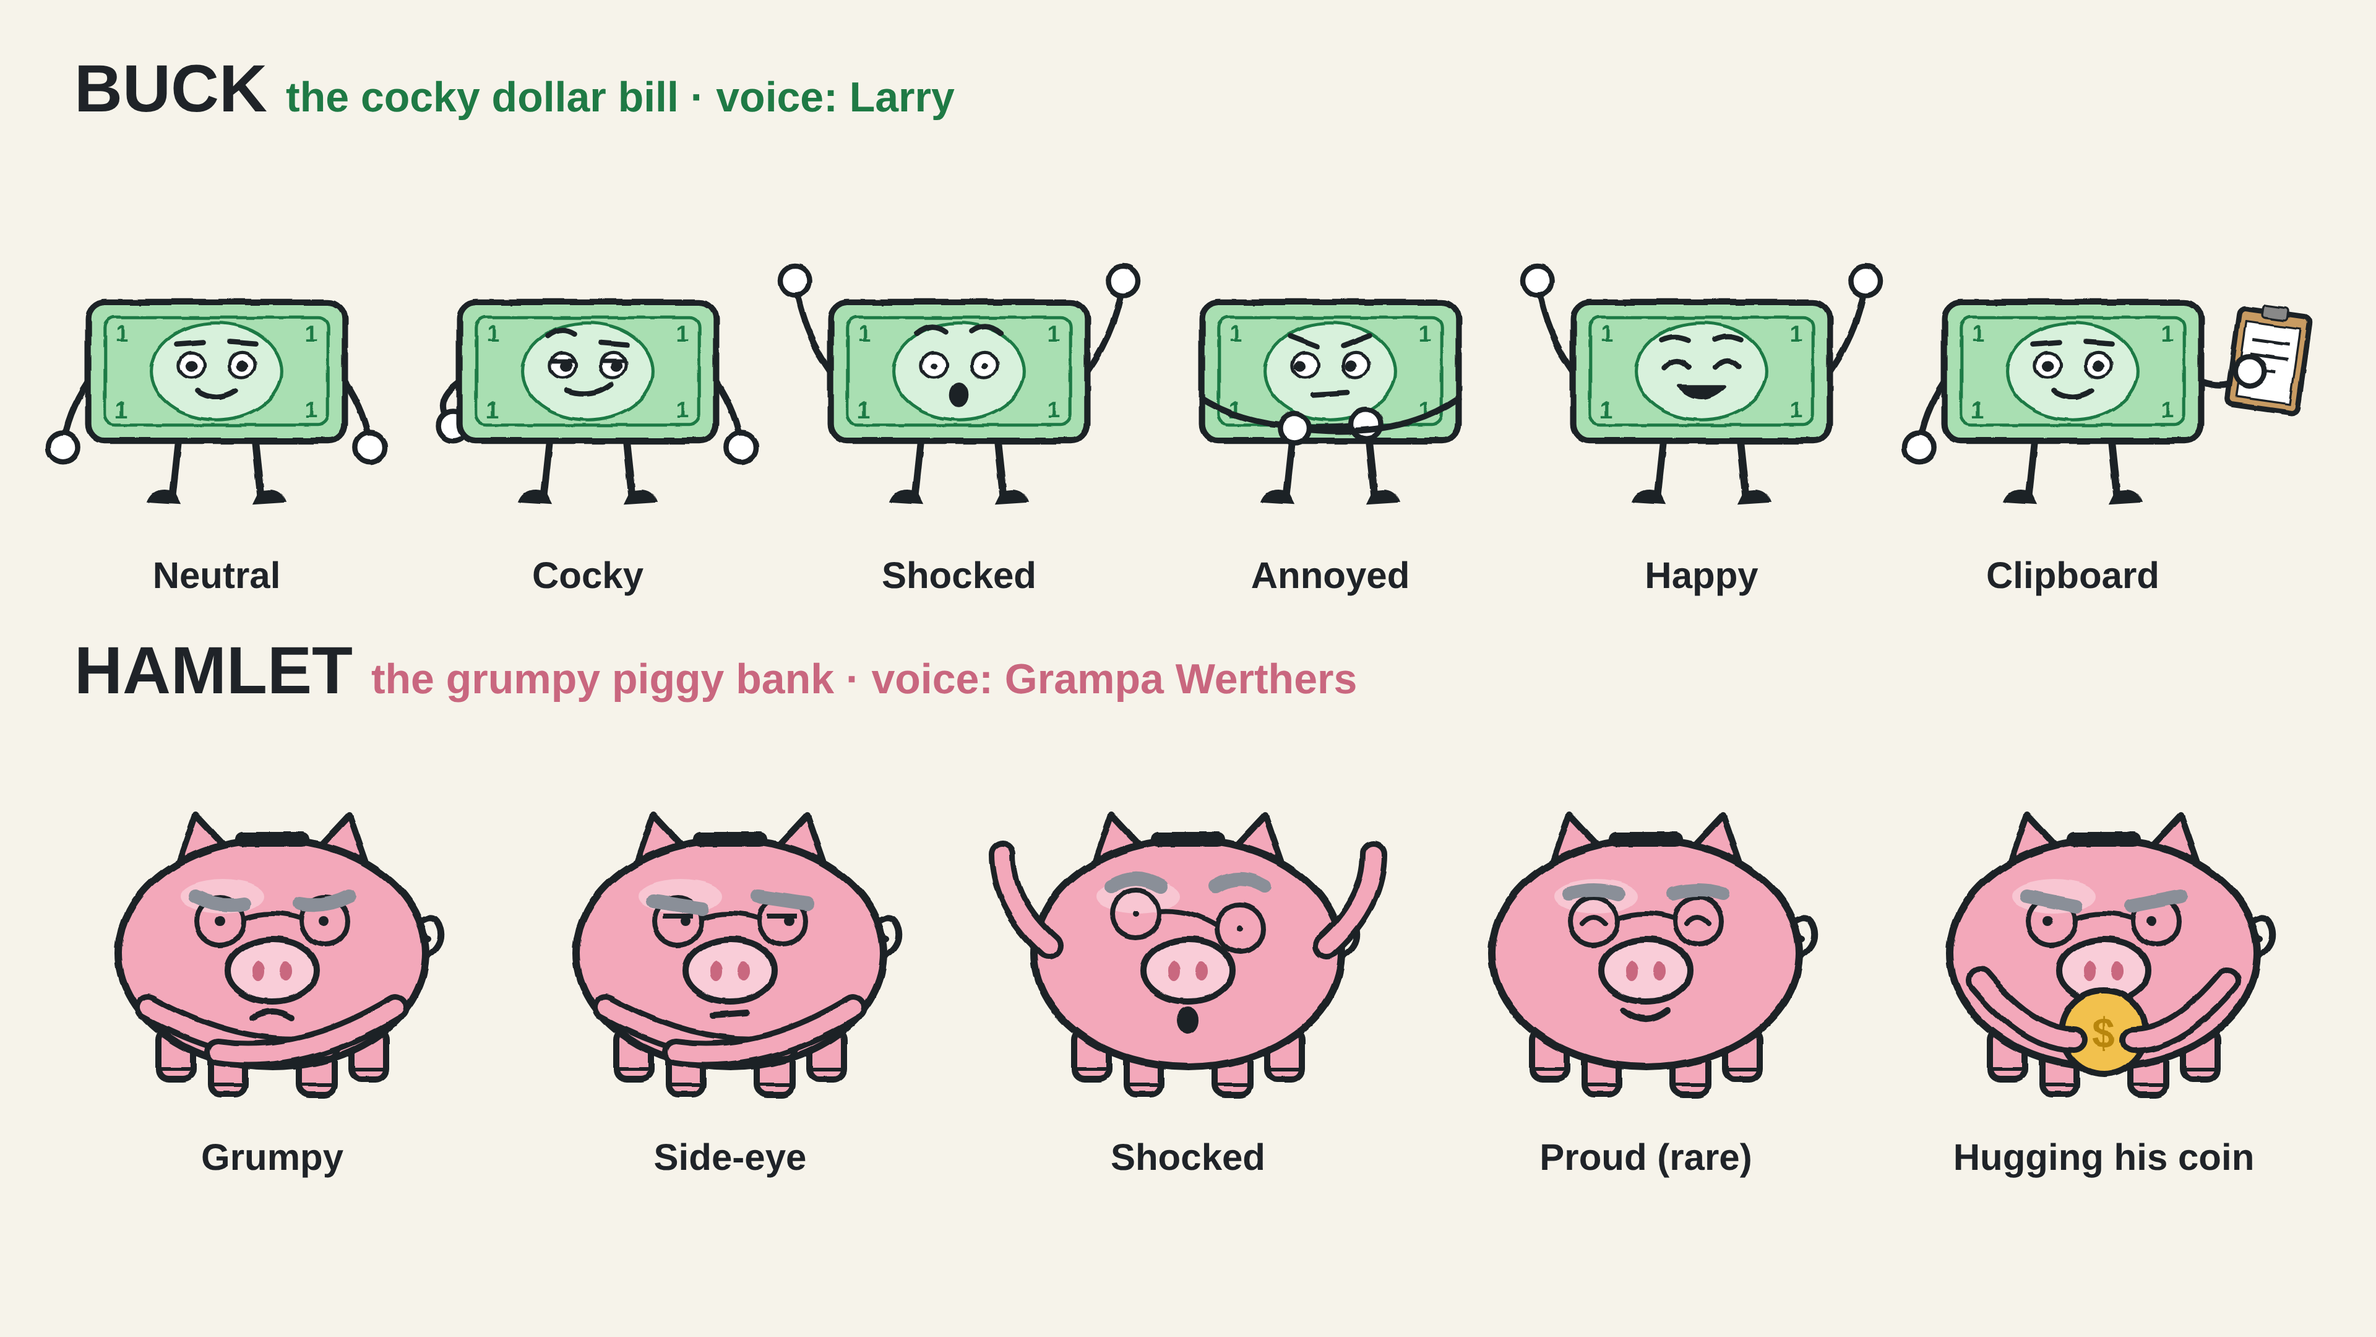
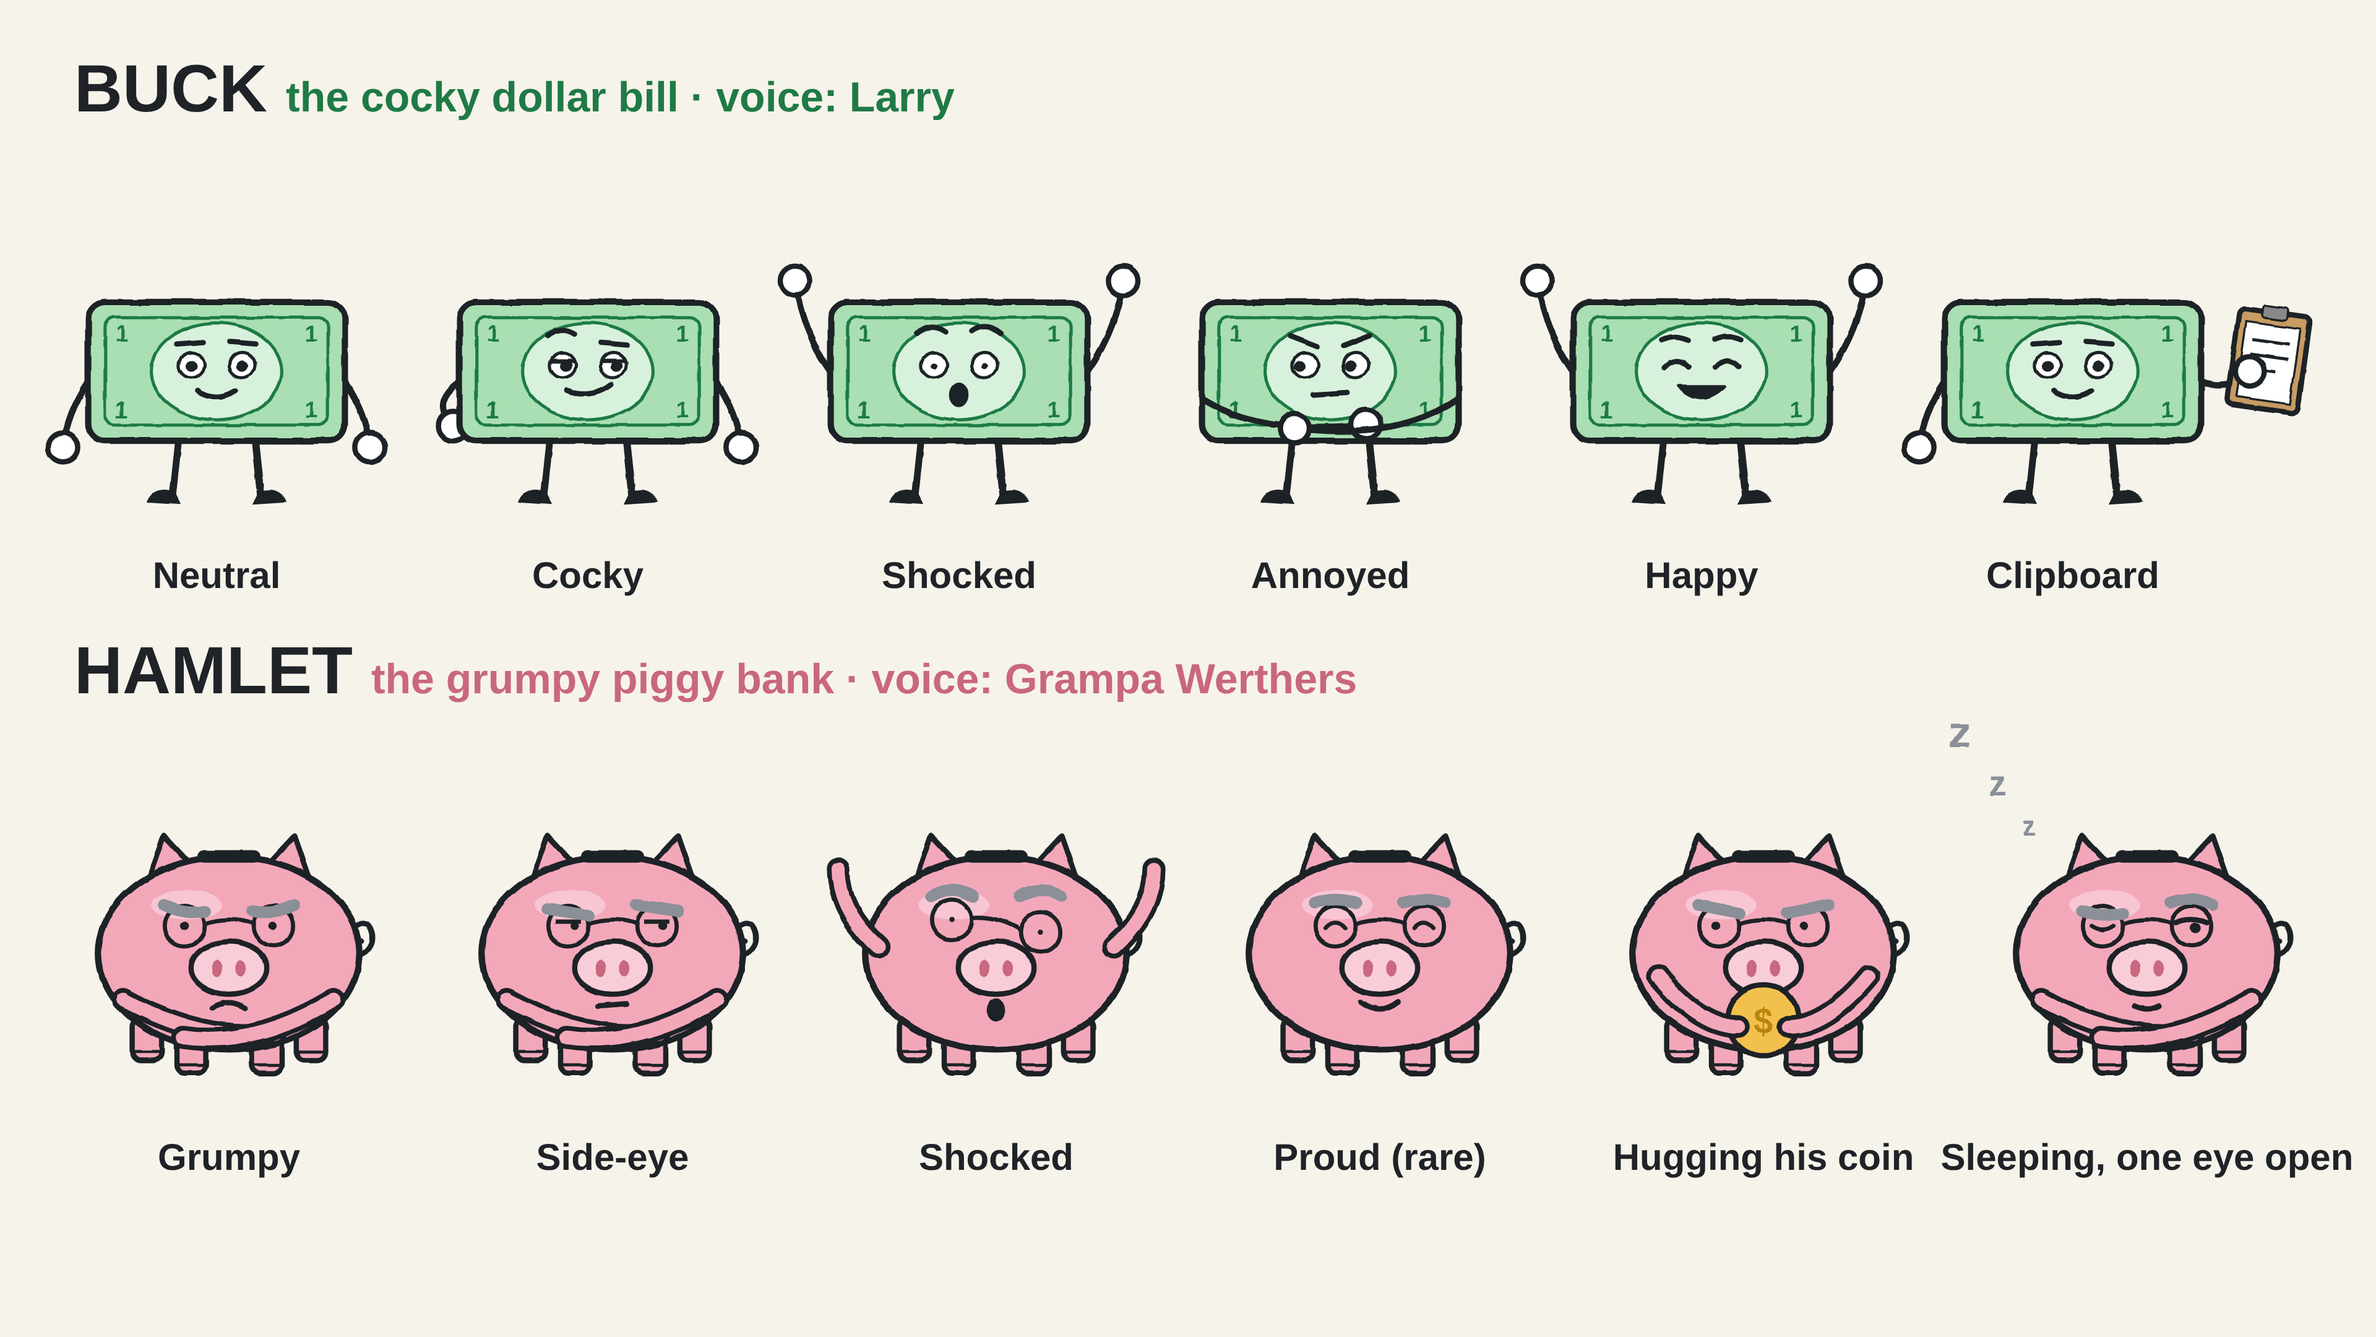
Add props kit and Hamlet's sleeping pose
Road map (todo/active/done stops), pizza (highlighted slice and bite),
EXAMPLE card with stamp, source tag and price board, matching the
characters. Hamlet gains a sleeping-with-one-eye-open pose.

Claude-Session: https://claude.ai/code/session_01WhC43zTCZsoZD85bqhxNNz

Changed region(s): [[0.0312, 0.6204, 1.0, 0.8995], [0.375, 0.8375, 0.4375, 0.8995]]

diff --git a/kit/props/props.js b/kit/props/props.js
@@ -1,0 +1,116 @@
+// Reusable props for the channel's videos. Same colours and line weight as the
+// characters (kit/characters/characters.js), so everything matches on screen.
+// Each function returns an SVG string; place it with <g transform="translate(x y) scale(s)">.
+// Element ids are prefixed (opts.id) so scenes can animate parts with GSAP.
+
+const { COLORS } = require("../characters/characters.js");
+const INK = COLORS.ink;
+const FONT = "Nunito, sans-serif";
+const PAPER = "#f6f3ea";
+const ACCENT = "#23a05a";
+const STAMP = "#c0392b";
+const GREY = "#7a7f87";
+
+function text(x, y, str, size, { weight = 800, fill = INK, anchor = "middle", extra = "" } = {}) {
+  return `<text x="${x}" y="${y}" text-anchor="${anchor}" font-family="${FONT}" font-weight="${weight}" font-size="${size}" fill="${fill}" ${extra}>${str}</text>`;
+}
+
+// ---------- ROAD MAP ----------
+// Five stops along a hand-drawn road. state per stop: "todo" | "active" | "done".
+// Drawn in a 1600 x 360 box with its top-left at (0, 0).
+const ROAD_PATH = "M 20 220 C 230 60, 340 330, 560 210 S 900 70, 1050 210 S 1380 330, 1580 150";
+function roadMap({ id = "map", stops = ["Your App", "Market Maker", "Exchange", "Seller", "Clearinghouse"],
+                   states = [], positions = [[100, 158], [452, 245], [800, 128], [1157, 262], [1500, 183]],
+                   labelAbove = [false, false, false, false, true] } = {}) {
+  let s = `<g id="${id}" filter="url(#wobble)">`;
+  s += `<path id="${id}-road" d="${ROAD_PATH}" fill="none" stroke="${INK}" stroke-width="10" stroke-linecap="round"/>`;
+  s += `<path d="${ROAD_PATH}" fill="none" stroke="${PAPER}" stroke-width="3" stroke-dasharray="18 22" stroke-linecap="round"/>`;
+  stops.forEach((name, i) => {
+    const [x, y] = positions[i];
+    const st = states[i] || "todo";
+    const fill = st === "active" ? ACCENT : st === "done" ? "#cfead7" : "#fff";
+    s += `<g id="${id}-stop${i + 1}">`;
+    s += `<circle cx="${x}" cy="${y}" r="40" fill="${fill}" stroke="${INK}" stroke-width="8"/>`;
+    s += st === "done"
+      ? `<path d="M ${x - 16} ${y} L ${x - 4} ${y + 13} L ${x + 18} ${y - 14}" fill="none" stroke="${COLORS.billDark}" stroke-width="9" stroke-linecap="round" stroke-linejoin="round"/>`
+      : text(x, y + 15, i + 1, 42, { weight: 900, fill: st === "active" ? "#fff" : INK });
+    s += text(x, labelAbove[i] ? y - 62 : y + 98, name, 36);
+    s += `</g>`;
+  });
+  return s + `</g>`;
+}
+
+// ---------- PIZZA ----------
+// A pizza centred on (0, 0), radius 300. highlight = slice index (0 = right, going counter-clockwise).
+// bite = true cuts a scalloped bite from the highlighted slice's crust.
+function pizza({ id = "pizza", slices = 8, highlight = null, bite = false, label = null } = {}) {
+  const R = 300;
+  let s = `<g id="${id}" filter="url(#wobble)">`;
+  s += `<circle r="${R}" fill="#f3c26b" stroke="${INK}" stroke-width="10"/>`;
+  s += `<circle r="${R - 45}" fill="#e8573f" stroke="${INK}" stroke-width="6"/>`;
+  // pepperoni, fixed positions
+  [[-120, -90], [60, -160], [-40, 60], [140, 40], [-150, 120], [40, 180], [180, -90], [-60, -190]]
+    .forEach(([x, y]) => (s += `<circle cx="${x}" cy="${y}" r="26" fill="#b8352a" stroke="${INK}" stroke-width="4"/>`));
+  for (let k = 0; k < slices; k++) {
+    const a = (-k / slices) * Math.PI * 2;
+    s += `<line x1="0" y1="0" x2="${(Math.cos(a) * R).toFixed(1)}" y2="${(Math.sin(a) * R).toFixed(1)}" stroke="${INK}" stroke-width="6"/>`;
+  }
+  if (highlight !== null) {
+    const a1 = (-highlight / slices) * Math.PI * 2, a2 = (-(highlight + 1) / slices) * Math.PI * 2;
+    const p1 = [Math.cos(a1) * R, Math.sin(a1) * R], p2 = [Math.cos(a2) * R, Math.sin(a2) * R];
+    const wedge = `M 0 0 L ${p1[0].toFixed(1)} ${p1[1].toFixed(1)} A ${R} ${R} 0 0 0 ${p2[0].toFixed(1)} ${p2[1].toFixed(1)} Z`;
+    s += `<g id="${id}-slice"><defs><clipPath id="${id}-clip"><path d="${wedge}"/></clipPath></defs>`;
+    s += `<path d="${wedge}" fill="#ffd27a" stroke="${COLORS.billDark}" stroke-width="10" stroke-linejoin="round"/>`;
+    if (bite) {
+      const mid = (a1 + a2) / 2, spread = (a1 - a2) * 0.32;
+      s += `<g id="${id}-bite" clip-path="url(#${id}-clip)">`;
+      [[mid - spread, 44], [mid, 50], [mid + spread, 44]].forEach(([a, r]) => {
+        s += `<circle cx="${(Math.cos(a) * 285).toFixed(1)}" cy="${(Math.sin(a) * 285).toFixed(1)}" r="${r}" fill="${PAPER}" stroke="${COLORS.billDark}" stroke-width="8"/>`;
+      });
+      s += `</g>`;
+    }
+    s += `</g>`;
+  }
+  if (label) s += text(0, -R - 50, label, 52);
+  return s + `</g>`;
+}
+
+// ---------- EXAMPLE CARD ----------
+// A cream index card with a red "EXAMPLE · MADE-UP NUMBERS" stamp. Top-left at (0, 0), 640 x 360.
+function exampleCard({ id = "example", title = "EXAMPLE", lines = [] } = {}) {
+  let s = `<g id="${id}" filter="url(#wobble)">`;
+  s += `<rect x="8" y="10" width="640" height="360" rx="14" fill="#d9d3c4"/>`;
+  s += `<rect width="640" height="360" rx="14" fill="#fffaf0" stroke="${INK}" stroke-width="7"/>`;
+  [120, 180, 240, 300].forEach(y => (s += `<line x1="36" y1="${y}" x2="604" y2="${y}" stroke="#b9d3e8" stroke-width="3"/>`));
+  s += `<line x1="36" y1="78" x2="604" y2="78" stroke="#e8a3a3" stroke-width="3"/>`;
+  s += text(40, 62, title, 44, { weight: 900, anchor: "start" });
+  lines.forEach((l, i) => (s += text(40, 166 + i * 60, l, 38, { weight: 700, anchor: "start" })));
+  s += `<g id="${id}-stamp" transform="translate(470 300) rotate(-12)">` +
+       `<rect x="-150" y="-36" width="300" height="72" rx="10" fill="none" stroke="${STAMP}" stroke-width="7"/>` +
+       text(0, -4, "EXAMPLE", 30, { weight: 900, fill: STAMP }) +
+       text(0, 26, "MADE-UP NUMBERS", 22, { weight: 900, fill: STAMP }) + `</g>`;
+  return s + `</g>`;
+}
+
+// ---------- SOURCE TAG ----------
+// Small grey caption for every real-data shot. Place at bottom-left: translate(60 1040).
+function sourceTag({ id = "source", text: str = "Source: SEC Investor.gov" } = {}) {
+  return `<g id="${id}">` +
+    `<rect x="-14" y="-34" width="${Math.max(220, str.length * 15.5)}" height="48" rx="10" fill="#ffffff" opacity="0.82"/>` +
+    text(0, 0, str, 28, { weight: 700, fill: GREY, anchor: "start" }) + `</g>`;
+}
+
+// ---------- PRICE BOARD ----------
+// A ticker-style board showing the last-trade price. Top-left at (0, 0), 640 x 300.
+function priceBoard({ id = "board", label = "APPLE · LAST TRADE", price = "$250.00", change = null } = {}) {
+  let s = `<g id="${id}" filter="url(#wobble)">`;
+  s += `<rect x="0" y="0" width="640" height="300" rx="22" fill="#20252b" stroke="${INK}" stroke-width="8"/>`;
+  s += `<rect x="24" y="24" width="592" height="252" rx="12" fill="#2c333b"/>`;
+  s += text(320, 82, label, 32, { weight: 800, fill: "#aab3bd" });
+  s += `<g id="${id}-price">` + text(320, 196, price, 104, { weight: 900, fill: "#5fe08f" }) + `</g>`;
+  if (change) s += text(320, 252, change, 34, { weight: 800, fill: "#5fe08f" });
+  [70, 570].forEach(x => (s += `<circle cx="${x}" cy="50" r="8" fill="#5fe08f"/>`));
+  return s + `</g>`;
+}
+
+module.exports = { roadMap, pizza, exampleCard, sourceTag, priceBoard, ROAD_PATH };

diff --git a/kit/characters/characters.js b/kit/characters/characters.js
@@ -110,6 +110,9 @@ const HAMLET_FACES = {
              mouth: "M -18 46 Q 0 60 18 46" },
   hugging: { browL: "M -62 -46 L -22 -38", browR: "M 22 -38 L 62 -46", pupil: 4, look: -3,
              mouth: "M -14 52 Q 0 46 14 52" },
+  // asleep, but one eye stays open on his money
+  sleeping:{ browL: "M -62 -40 Q -42 -34 -22 -38", browR: "M 22 -48 Q 42 -56 62 -46", pupil: 4, look: 4,
+             mouth: "M -12 50 Q 0 56 12 50", oneEye: true },
 };
 
 function hamlet(expr = "grumpy") {
@@ -135,8 +138,14 @@ function hamlet(expr = "grumpy") {
   const tilt = f.tilt ? 6 : 0;
   eyeX.forEach((x, i) => {
     const y = -26 + (i ? tilt : -tilt);
-    s += f.closed
-      ? `<path d="M ${x - 9} ${y + 2} Q ${x} ${y - 8} ${x + 9} ${y + 2}" stroke="${ink}" stroke-width="4" fill="none" stroke-linecap="round"/>`
+    const shut = f.closed || (f.oneEye && i === 0);
+    s += shut
+      ? (f.oneEye
+          ? `<path d="M ${x - 10} ${y} Q ${x} ${y + 7} ${x + 10} ${y}" stroke="${ink}" stroke-width="4" fill="none" stroke-linecap="round"/>`
+          : `<path d="M ${x - 9} ${y + 2} Q ${x} ${y - 8} ${x + 9} ${y + 2}" stroke="${ink}" stroke-width="4" fill="none" stroke-linecap="round"/>`)
+      : f.oneEye
+      ? `<circle cx="${x + f.look}" cy="${y + 2}" r="${f.pupil + 1}" fill="${ink}"/>` +
+        `<path d="M ${x - 15} ${y - 3} Q ${x} ${y - 9} ${x + 15} ${y - 3}" stroke="${ink}" stroke-width="5" fill="none" stroke-linecap="round"/>`
       : `<circle cx="${x + (f.look || 0)}" cy="${y}" r="${f.pupil}" fill="${ink}"/>` +
         (f.lids ? `<path d="M ${x - 12} ${y - 4} H ${x + 12}" stroke="${ink}" stroke-width="4"/>` : "");
     s += `<circle cx="${x}" cy="${y}" r="19" fill="none" stroke="${ink}" stroke-width="4"/>`;
@@ -168,6 +177,15 @@ function hamlet(expr = "grumpy") {
          `<path d="M -112 -6 Q -150 -40 -150 -80" stroke="${COLORS.pig}" stroke-width="13" stroke-linecap="round" fill="none"/>` +
          `<path d="M 112 -6 Q 150 -40 150 -80" stroke="${ink}" stroke-width="22" stroke-linecap="round" fill="none"/>` +
          `<path d="M 112 -6 Q 150 -40 150 -80" stroke="${COLORS.pig}" stroke-width="13" stroke-linecap="round" fill="none"/>`;
+  }
+  if (expr === "sleeping") {
+    s += `<path d="M -100 44 Q -24 86 44 76" stroke="${ink}" stroke-width="22" stroke-linecap="round" fill="none"/>` +
+         `<path d="M -100 44 Q -24 86 44 76" stroke="${COLORS.pig}" stroke-width="13" stroke-linecap="round" fill="none"/>` +
+         `<path d="M 100 44 Q 24 90 -44 80" stroke="${ink}" stroke-width="22" stroke-linecap="round" fill="none"/>` +
+         `<path d="M 100 44 Q 24 90 -44 80" stroke="${COLORS.pig}" stroke-width="13" stroke-linecap="round" fill="none"/>`;
+    [[-112, -112, 26], [-142, -150, 34], [-178, -196, 42]].forEach(([x, y, size], k) => {
+      s += `<text id="z${k + 1}" x="${x}" y="${y}" text-anchor="middle" font-family="Nunito, sans-serif" font-weight="900" font-size="${size}" fill="${COLORS.brow}">z</text>`;
+    });
   }
   return s + `</g>`;
 }

diff --git a/kit/props/render_props.js b/kit/props/render_props.js
@@ -1,0 +1,30 @@
+// Renders the props sheet. Usage: node kit/props/render_props.js <out.png> [scale]
+const { chromium } = require("playwright");
+const { WOBBLE_FILTER, buck } = require("../characters/characters.js");
+const P = require("./props.js");
+(async () => {
+  const out = process.argv[2] || "props-sheet.png";
+  const scale = parseFloat(process.argv[3] || "1");
+  const label = (x, y, t) => `<text x="${x}" y="${y}" text-anchor="middle" font-family="Nunito, sans-serif" font-weight="800" font-size="30" fill="#1f2328">${t}</text>`;
+  const body =
+    `<g transform="translate(160 40) scale(0.8)">${P.roadMap({ states: ["done", "active"] })}</g>` +
+    `<g transform="translate(500 120) scale(0.5)">${buck("cocky")}</g>` +
+    label(960, 400, "ROAD MAP · stop 1 done, stop 2 active") +
+    `<g transform="translate(250 690) scale(0.6)">${P.pizza({})}</g>` + label(250, 1000, "PIZZA") +
+    `<g transform="translate(640 690) scale(0.6)">${P.pizza({ id: "p2", highlight: 0, bite: true })}</g>` + label(640, 1000, "SLICE + BITE") +
+    `<g transform="translate(900 470) scale(0.72)">${P.exampleCard({ title: "EXAMPLE: A PIZZA SHOP", lines: ["Shop worth $100", "Cut into 100 slices", "1 slice = $1"] })}</g>` +
+    label(1130, 760, "EXAMPLE CARD") +
+    `<g transform="translate(1400 470) scale(0.72)">${P.priceBoard({ price: "$250.05", change: "+$0.05" })}</g>` +
+    label(1630, 730, "PRICE BOARD") +
+    `<g transform="translate(940 860)">${P.sourceTag({ text: "Source: Apple Investor Relations" })}</g>` +
+    label(1180, 930, "SOURCE TAG (bottom-left on real-data shots)");
+  const html = `<!doctype html><html><body style="margin:0;background:#f6f3ea">
+  <svg xmlns="http://www.w3.org/2000/svg" width="1920" height="1080" viewBox="0 0 1920 1080">
+    <defs>${WOBBLE_FILTER}</defs><rect width="1920" height="1080" fill="#f6f3ea"/>${body}</svg></body></html>`;
+  const browser = await chromium.launch();
+  const page = await browser.newPage({ viewport: { width: 1920, height: 1080 }, deviceScaleFactor: scale });
+  await page.setContent(html);
+  await page.screenshot({ path: out });
+  await browser.close();
+  console.log("wrote", out);
+})();

diff --git a/kit/characters/render_sheet.js b/kit/characters/render_sheet.js
@@ -6,12 +6,12 @@ const { buck, hamlet, WOBBLE_FILTER } = require("./characters.js");
   const out = process.argv[2] || "sheet.png";
   const scale = parseFloat(process.argv[3] || "1");
   const buckPoses = [["neutral", "Neutral"], ["cocky", "Cocky"], ["shocked", "Shocked"], ["annoyed", "Annoyed"], ["happy", "Happy"], ["neutral", "Clipboard", { arms: "clipboard" }]];
-  const hamPoses = [["grumpy", "Grumpy"], ["sideeye", "Side-eye"], ["shocked", "Shocked"], ["proud", "Proud (rare)"], ["hugging", "Hugging his coin"]];
+  const hamPoses = [["grumpy", "Grumpy"], ["sideeye", "Side-eye"], ["shocked", "Shocked"], ["proud", "Proud (rare)"], ["hugging", "Hugging his coin"], ["sleeping", "Sleeping, one eye open"]];
   const cell = (svg, label, x, y) =>
     `<g transform="translate(${x} ${y})">${svg}</g><text x="${x}" y="${y + 175}" text-anchor="middle" font-family="Nunito, sans-serif" font-weight="800" font-size="30" fill="#1f2328">${label}</text>`;
   let body = "";
   buckPoses.forEach(([e, l, o], i) => (body += cell(`<g transform="scale(0.85)">${buck(e, o)}</g>`, l, 175 + i * 300, 300)));
-  hamPoses.forEach(([e, l], i) => (body += cell(hamlet(e), l, 220 + i * 370, 770)));
+  hamPoses.forEach(([e, l], i) => (body += cell(`<g transform="scale(0.85)">${hamlet(e)}</g>`, l, 185 + i * 310, 770)));
   const html = `<!doctype html><html><head><style>body{margin:0;background:#f6f3ea}</style></head><body>
   <svg xmlns="http://www.w3.org/2000/svg" width="1920" height="1080" viewBox="0 0 1920 1080">
     <defs>${WOBBLE_FILTER}</defs>

diff --git a/kit/props/README.md b/kit/props/README.md
@@ -1,0 +1,15 @@
+# Props kit
+
+Reusable props that match the characters (same colours, line weight and hand-drawn wobble). Each function returns an SVG string; place it with `<g transform="translate(x y) scale(s)">` and add `WOBBLE_FILTER` from `kit/characters/characters.js` to the SVG `<defs>`. Parts have ids (prefixed with `opts.id`) so scenes can animate them.
+
+| Prop | Function | Options |
+|---|---|---|
+| Road map with five stops | `roadMap()` | `stops` (names), `states` per stop: `todo`, `active`, `done` |
+| Pizza | `pizza()` | `slices`, `highlight` (slice index), `bite` (scalloped bite from that slice), `label` |
+| EXAMPLE card | `exampleCard()` | `title`, `lines`; always carries the "EXAMPLE · MADE-UP NUMBERS" stamp |
+| Source tag | `sourceTag()` | `text`; place bottom-left (`translate(60 1040)`) on every real-data shot |
+| Price board | `priceBoard()` | `label`, `price`, `change` |
+
+`props-sheet.png` shows them all. Re-render: `node kit/props/render_props.js kit/props/props-sheet.png 2`
+
+One-off props for a single scene (a phone, the coat check, the SIPC shield and so on) are built with the scene, in the same style.
